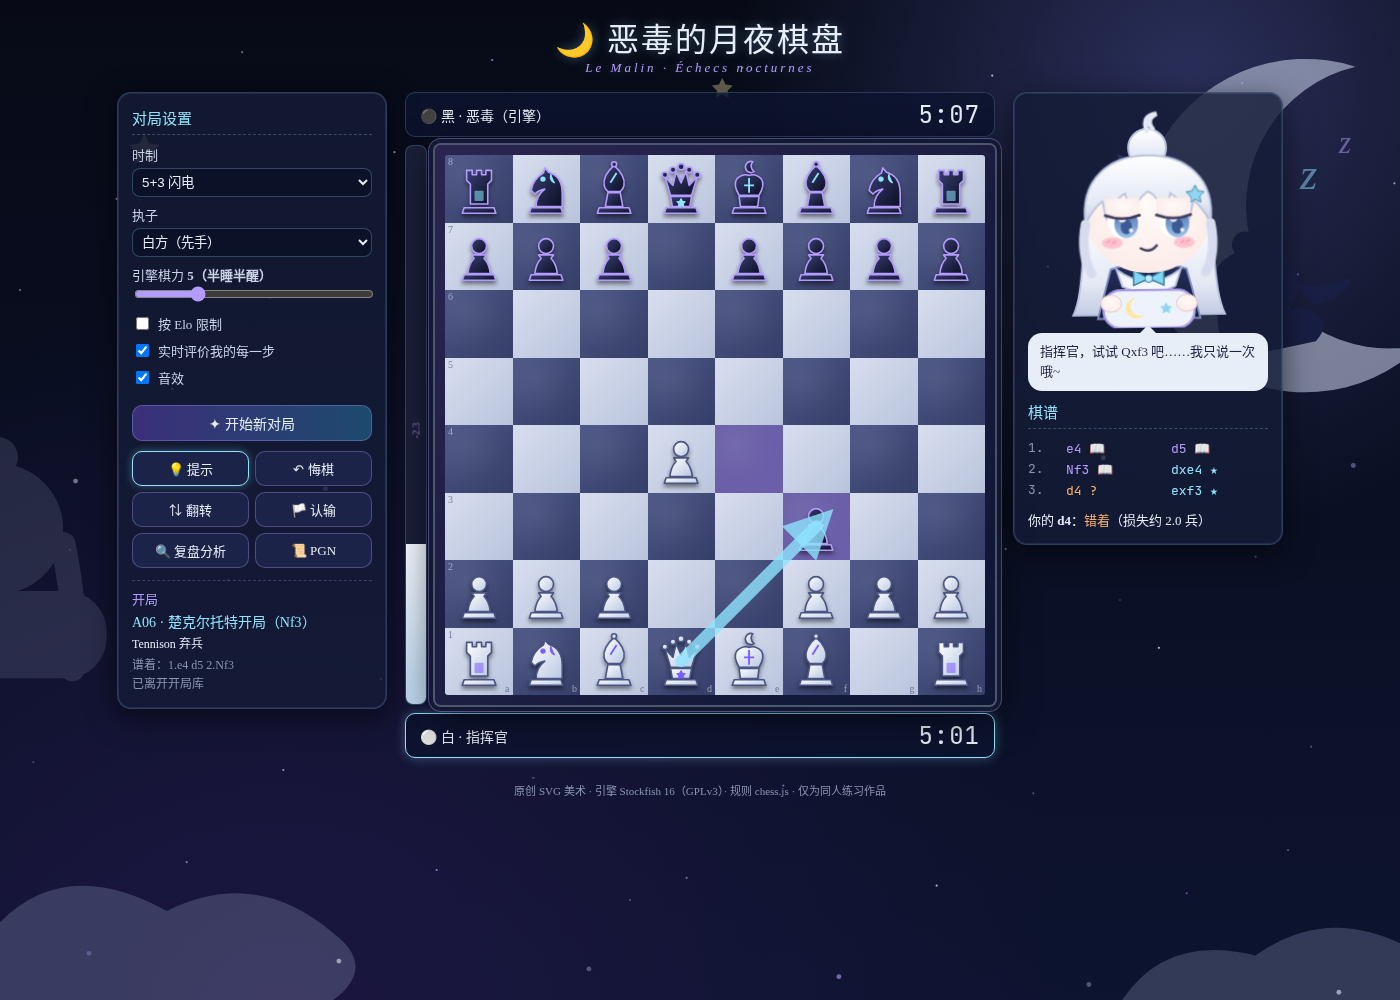
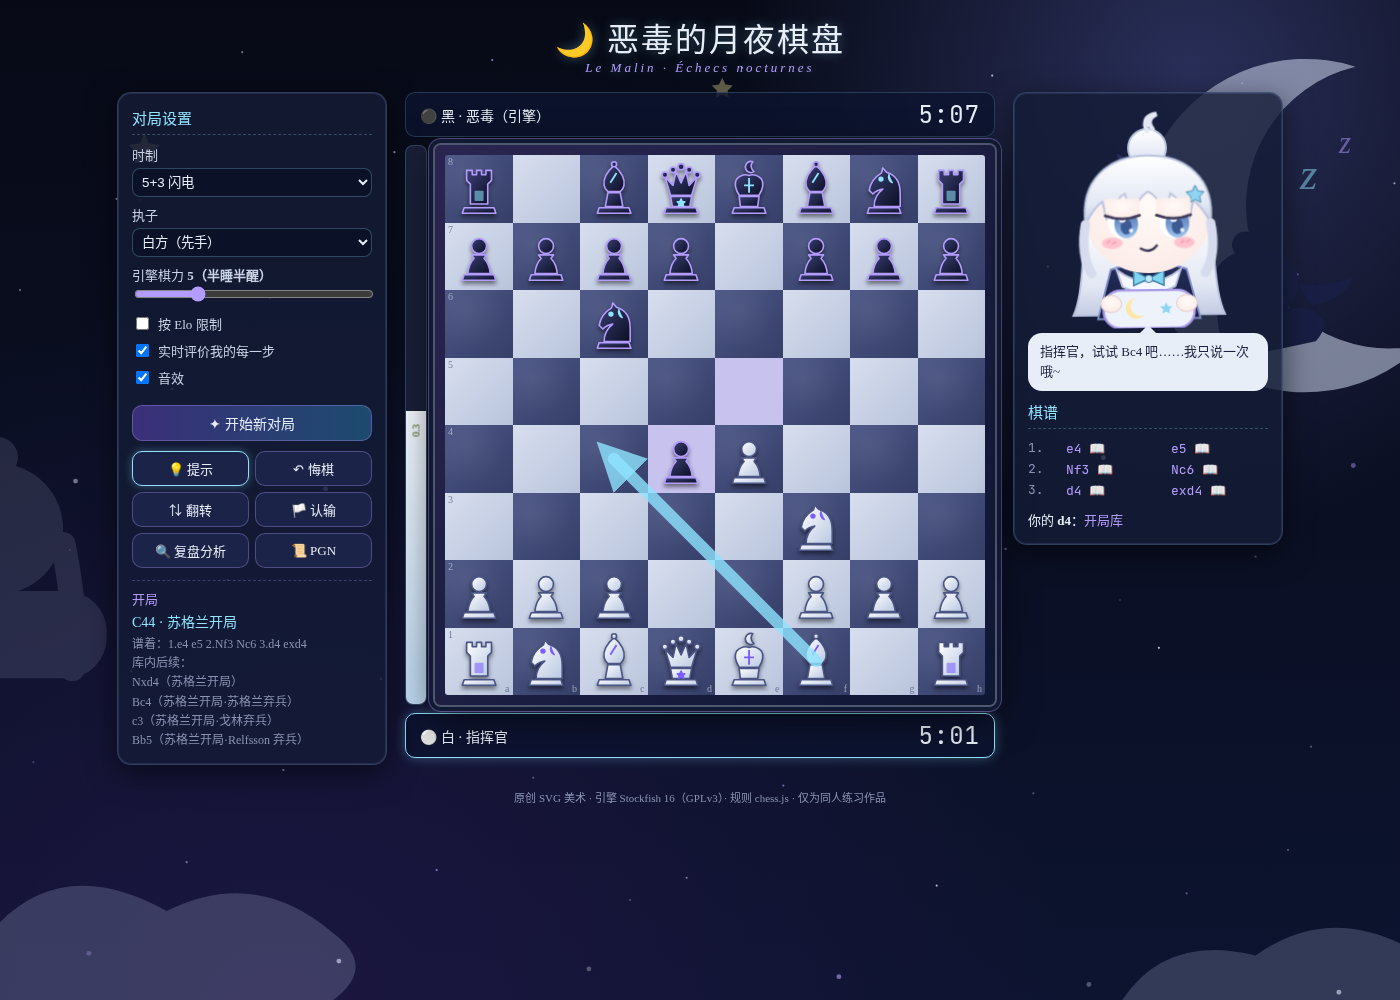
v3: pixel-art chibi Le Malin secretary (5 expressions, bob/blink), pixel night-sky background, art style toggle

diff --git a/pixel.js b/pixel.js
@@ -1,0 +1,104 @@
+// 原创像素风 Q版「恶毒」：64x64 网格程序化绘制（参考官方配色元素，非描摹）
+export const PAL = {
+  o:'#2b2342', // 轮廓
+  h:'#f4f6fc', H:'#cdd4ec', j:'#9aa3cc', // 头发 亮/中/暗
+  s:'#fff1ea', S:'#f6d6cf',             // 皮肤
+  w:'#ffffff', b:'#7fa6dc', B:'#4a68a8', d:'#2c3d73', // 眼白/虹膜/瞳孔
+  p:'#ff9fb4', m:'#c4546f',             // 腮红 嘴
+  n:'#2a3366', N:'#1a2046', c:'#8fe0f5', C:'#4fa9cc', // 洋装 / 蝴蝶结
+  W:'#f2f5ff', k:'#e6e9f7', y:'#ffe08a', v:'#b49cff'  // 领子 枕头 月亮 紫
+};
+const SZ = 64;
+function grid(){ return Array.from({ length: SZ }, () => Array(SZ).fill(null)); }
+function ell(g, cx, cy, rx, ry, c, cond){ for (let y = 0; y < SZ; y++) for (let x = 0; x < SZ; x++) { const dx = (x + .5 - cx) / rx, dy = (y + .5 - cy) / ry; if (dx * dx + dy * dy <= 1 && (!cond || cond(x, y, g[y][x]))) g[y][x] = c; } }
+function rect(g, x0, y0, x1, y1, c){ for (let y = y0; y <= y1; y++) for (let x = x0; x <= x1; x++) if (y >= 0 && y < SZ && x >= 0 && x < SZ) g[y][x] = c; }
+function px(g, pts, c){ for (const [x, y] of pts) if (g[y]) g[y][x] = c; }
+function outline(g){ const o = g.map(r => r.slice()); for (let y = 0; y < SZ; y++) for (let x = 0; x < SZ; x++) if (!g[y][x]) { for (const [dx, dy] of [[1,0],[-1,0],[0,1],[0,-1]]) { const v = g[y + dy] && g[y + dy][x + dx]; if (v && v !== 'o') { o[y][x] = 'o'; break; } } } return o; }
+function mirror(fn){ return (x, ...a) => { fn(x, ...a); }; }
+
+const EX = [24, 40], EY = 28; // 眼睛位置（左上角 x = cx-4）
+function eyes(g, mode){
+  const E = (cx, look) => { const L = cx - 4, T = EY;
+    if (mode === 'yawn') { px(g, [[L,T+5],[L+1,T+6],[L+2,T+6],[L+3,T+6],[L+4,T+6],[L+5,T+6],[L+6,T+6],[L+7,T+5]], 'o'); return; }
+    if (mode === 'happy') { px(g, [[L,T+6],[L+1,T+5],[L+2,T+4],[L+3,T+4],[L+4,T+4],[L+5,T+4],[L+6,T+5],[L+7,T+6]], 'o'); px(g, [[L+1,T+6],[L+6,T+6]], 'o'); return; }
+    rect(g, L+1, T, L+6, T, 'o'); rect(g, L, T+1, L+7, T+1, 'o');
+    if (mode === 'shock') { rect(g, L, T+2, L+7, T+9, 'w'); rect(g, L+3, T+4, L+5, T+7, 'b'); rect(g, L+3, T+5, L+4, T+6, 'd'); px(g, [[L+3,T+4]], 'w'); px(g, [[L-1,T+2],[L+8,T+2],[L-1,T+3],[L+8,T+3]], 'o'); rect(g, L+1, T+10, L+6, T+10, 'o'); return; }
+    rect(g, L, T+2, L+7, T+10, 'b'); rect(g, L, T+2, L+7, T+4, 'B'); rect(g, L+1, T+11, L+6, T+11, 'o');
+    rect(g, L+2+look, T+4, L+5+look, T+9, 'd'); rect(g, L+1, T+10, L+6, T+10, 'c');
+    rect(g, L+1+look, T+2, L+3+look, T+4, 'w'); px(g, [[L+6+look,T+7],[L+5+look,T+8]], 'w');
+    px(g, [[L-1,T+1],[L+8,T+1],[L-1,T+2]], 'o');
+    if (mode === 'sleepy' || mode === 'smug') { const h = mode === 'smug' ? 3 : 4; rect(g, L-1, T, L+8, T + h, 's'); rect(g, L, T + h + 1, L+7, T + h + 1, 'o'); px(g, [[L-1,T+h+1],[L+8,T+h]], 'o'); }
+  };
+  const look = mode === 'smug' ? 1 : 0; E(EX[0], look); E(EX[1], look);
+  if (mode === 'yawn') px(g, [[46,EY+7],[46,EY+8],[47,EY+8]], 'c');
+  if (mode === 'shock') px(g, [[51,20],[51,21],[50,22],[51,22],[52,22],[51,23]], 'c');
+}
+function mouth(g, mode){ const Y = 42;
+  if (mode === 'yawn') { rect(g, 31, Y-1, 33, Y+1, 'm'); px(g, [[30,Y],[34,Y],[31,Y+2],[32,Y+2],[33,Y+2],[31,Y-2],[32,Y-2],[33,Y-2],[30,Y-1],[34,Y-1],[30,Y+1],[34,Y+1]], 'o'); px(g, [[32,Y+1]], 'p'); return; }
+  if (mode === 'shock') { px(g, [[32,Y-1],[33,Y-1]], 'o'); rect(g, 32, Y, 33, Y, 'm'); px(g, [[31,Y],[34,Y],[32,Y+1],[33,Y+1]], 'o'); return; }
+  if (mode === 'happy') { px(g, [[29,Y-1],[35,Y-1],[30,Y],[34,Y]], 'o'); rect(g, 31, Y, 33, Y, 'm'); rect(g, 31, Y+1, 33, Y+1, 'o'); return; }
+  if (mode === 'smug') { px(g, [[30,Y],[31,Y+1],[32,Y+1],[33,Y],[34,Y-1]], 'o'); return; }
+  px(g, [[31,Y],[33,Y]], 'o'); px(g, [[32,Y+1]], 'o');
+}
+export function lemalin(mode = 'sleepy', frame = 0){
+  const g = grid();
+  // 后发：圆头 + 两侧长发
+  ell(g, 32, 30, 25, 25, 'H');
+  for (let y = 30; y < 62; y++) { const t = (y - 30) / 32, w = Math.round(7 + 2 * t), x0 = 8 - Math.round(4 * t * t), x1 = 55 + Math.round(4 * t * t);
+    rect(g, x0, y, x0 + w, y, 'H'); rect(g, x1 - w, y, x1, y, 'H'); px(g, [[x0 + w, y], [x1 - w, y]], 'j'); if (y > 58) px(g, [[x0 + (y % 2), y], [x1 - (y % 2), y]], null); }
+  // 身体
+  for (let y = 46; y < 64; y++) { const w = 9 + Math.floor((y - 46) / 2); rect(g, 32 - w, y, 31 + w, y, y > 59 ? 'N' : 'n'); }
+  rect(g, 23, 46, 40, 47, 'W'); rect(g, 25, 48, 38, 48, 'W'); rect(g, 28, 49, 35, 49, 'W'); px(g, [[23,48],[40,48]], 'n');
+  px(g, [[27,48],[28,48],[27,49],[28,50],[29,50],[29,49],[36,48],[35,48],[36,49],[35,50],[34,50],[34,49],[30,50],[33,50]], 'c'); rect(g, 31, 49, 32, 51, 'C'); px(g, [[30,52],[33,52],[30,51],[33,51]], 'C');
+  // 抱枕
+  rect(g, 13, 54, 50, 62, 'k'); rect(g, 12, 56, 51, 61, 'k'); rect(g, 13, 61, 50, 62, 'W'); rect(g, 14, 55, 49, 55, 'W');
+  px(g, [[22,56],[23,56],[21,57],[21,58],[21,59],[22,60],[23,60],[24,59],[22,57],[22,58],[22,59]], 'y');
+  px(g, [[41,56],[40,57],[41,57],[42,57],[41,58],[39,57],[43,57],[41,59]], 'c'); px(g, [[41,57]], 'w'); px(g, [[31,58],[47,60],[16,60],[34,61]], 'v');
+  ell(g, 14, 56, 3.5, 3, 's'); ell(g, 49, 56, 3.5, 3, 's'); px(g, [[13,58],[14,58],[49,58],[50,58]], 'S');
+  // 脸
+  ell(g, 32, 33, 17, 14.5, 's'); rect(g, 22, 46, 41, 46, null); rect(g, 23, 46, 40, 47, 'W');
+  // 刘海（清晰发束）：每束底部尖
+  const bottom = x => { const p = [0, 2, 4, 5, 4, 2]; return 22 + p[(x + 3) % 6] + (Math.abs(x - 32) > 12 ? 3 : 0); };
+  ell(g, 32, 26, 22, 17, 'h', (x, y) => y <= bottom(x)); ell(g, 36, 30, 20, 13, 'H', (x, y, v) => v === 'h' && y <= bottom(x) && y >= 23 && (x + y) % 2 === 0 && y === bottom(x) - 1);
+  for (let x = 13; x <= 51; x++) { const b = bottom(x); if (g[b + 1] && g[b + 1][x] === 's') g[b][x] = 'j'; }
+  for (let x = 13; x <= 51; x++) if ((x + 3) % 6 === 0) for (let y = 20; y < bottom(x); y++) if (g[y][x] === 'h') g[y][x] = 'H';
+  // 丸子头 + 发带 + 呆毛
+  ell(g, 32, 8, 7.5, 7, 'j'); ell(g, 32, 8, 6.5, 6, 'h'); ell(g, 33.5, 10, 5, 3.5, 'H', (x, y, v) => v === 'h' && y >= 10); px(g, [[29,4],[30,4],[28,5],[29,5]], 'w'); px(g, [[27,12],[37,12],[26,11],[38,11],[27,10],[37,10]], 'j');
+  rect(g, 27, 13, 37, 13, 'n'); px(g, [[24,12],[25,12],[24,14],[25,13],[39,12],[40,12],[39,13],[40,14],[26,13],[38,13]], 'n');
+  px(g, [[32,2],[32,1],[33,0],[34,0],[35,1],[35,2]], 'h');
+  // 侧发
+  for (let y = 26; y < 47; y++) { const e = y > 40 ? 1 : 0; rect(g, 13, y, 16 - e, y, 'h'); rect(g, 47 + e, y, 50, y, 'h'); px(g, [[16 - e, y], [47 + e, y]], 'j'); }
+  // 高光 + 星星发饰
+  px(g, [[21,16],[22,16],[23,15],[24,15],[25,15],[39,15],[40,15],[41,16]], 'w');
+  px(g, [[47,18],[46,19],[47,19],[48,19],[47,20],[45,19],[49,19]], 'c'); px(g, [[47,19]], 'w');
+  eyes(g, mode);
+  rect(g, 18, 40, 21, 40, 'p'); rect(g, 43, 40, 46, 40, 'p'); px(g, [[19,41],[20,41],[44,41],[45,41]], 'p');
+  mouth(g, mode);
+  let out = outline(g);
+  if (frame) { out = [Array(SZ).fill(null), ...out.slice(0, SZ - 1)]; }
+  return out;
+}
+export function blinkFrame(mode){ const g = lemalin(mode, 0); if (mode === 'happy' || mode === 'yawn') return g; // 眨眼：把眼睛区域换成闭眼线
+  for (const cx of EX) { const L = cx - 4; for (let y = EY; y < EY + 11; y++) for (let x = L - 1; x <= L + 8; x++) if (g[y][x] && 'wbBdCo'.includes(g[y][x])) g[y][x] = 's'; for (let x = L; x <= L + 7; x++) g[EY + 6][x] = 'o'; g[EY + 5][L - 1] = 'o'; g[EY + 5][L + 8] = 'o'; }
+  return g; }
+export function drawGrid(canvas, g, scale = 4){ canvas.width = SZ * scale; canvas.height = SZ * scale; const ctx = canvas.getContext('2d'); ctx.clearRect(0, 0, canvas.width, canvas.height);
+  for (let y = 0; y < SZ; y++) for (let x = 0; x < SZ; x++) { const c = g[y][x]; if (c) { ctx.fillStyle = PAL[c]; ctx.fillRect(x * scale, y * scale, scale, scale); } } }
+
+// 像素夜空背景（含睡在月亮上的小恶毒）
+export function drawBackground(canvas){
+  const W = 320, H = 180; canvas.width = W; canvas.height = H; const ctx = canvas.getContext('2d');
+  for (let y = 0; y < H; y++) { const t = y / H; ctx.fillStyle = `rgb(${Math.round(7 + 12 * t)},${Math.round(10 + 10 * t)},${Math.round(24 + 28 * t)})`; ctx.fillRect(0, y, W, 1); }
+  let seed = 7; const r = () => (seed = (seed * 16807) % 2147483647) / 2147483647;
+  for (let i = 0; i < 140; i++) { const x = Math.floor(r() * W), y = Math.floor(r() * H * .8), b = r(); ctx.fillStyle = b > .9 ? '#ffe08a' : b > .6 ? '#b49cff' : '#e8eef7'; ctx.globalAlpha = .35 + b * .5; ctx.fillRect(x, y, 1, 1); if (b > .93) { ctx.fillRect(x - 1, y, 3, 1); ctx.fillRect(x, y - 1, 1, 3); } }
+  ctx.globalAlpha = 1;
+  // 月亮
+  const mx = 262, my = 118, R = 22; for (let y = -R; y <= R; y++) for (let x = -R; x <= R; x++) { const d = x * x + y * y, d2 = (x + 11) ** 2 + (y - 7) ** 2; if (d <= R * R && d2 > (R - 3) ** 2) { ctx.fillStyle = d > (R - 2) ** 2 ? '#b9c8ef' : (x + y) % 9 === 0 ? '#cfdcfa' : '#e6eeff'; ctx.fillRect(mx + x, my + y, 1, 1); } }
+  // 小恶毒睡在月牙上（12x8 像素）
+  const tiny = ['....hh......', '...hhhh.....', '.hhhhhhhh...', 'hhhsssshhhh.', 'hhs-s-sshhhhh', '.hssssshhhkkk', '..nnnnnnkkkk', '...nnnn..kk.'];
+  const tp = { h: '#f4f6fc', s: '#fff1ea', '-': '#2b2342', n: '#2a3366', k: '#e6e9f7' };
+  tiny.forEach((row, y) => [...row].forEach((c, x) => { if (tp[c]) { ctx.fillStyle = tp[c]; ctx.fillRect(mx - 16 + x, my + 10 + y, 1, 1); } }));
+  ctx.fillStyle = '#8fe3ff'; ctx.fillRect(mx - 10, my + 8, 2, 1); ctx.fillRect(mx - 9, my + 7, 1, 1); ctx.fillStyle = '#b49cff'; ctx.fillRect(mx - 5, my + 3, 1, 1);
+  // 云/枕头山
+  ctx.fillStyle = '#1c2450'; for (let x = 0; x < W; x++) { const h = 10 + Math.round(5 * Math.sin(x / 13) + 3 * Math.sin(x / 5.3)); ctx.fillRect(x, H - h, 1, h); }
+  ctx.fillStyle = '#141a3c'; for (let x = 0; x < W; x++) { const h = 5 + Math.round(3 * Math.sin(x / 9 + 1)); ctx.fillRect(x, H - h, 1, h); }
+}

diff --git a/app.js b/app.js
@@ -1,6 +1,7 @@
 import { Chess } from './vendor/chess.js';
 import { pieceSVG } from './pieces.js';
 import { chibiSVG, backgroundSVG } from './chibi.js';
+import { lemalin, blinkFrame, drawGrid, drawBackground } from './pixel.js';
 const $ = s => document.querySelector(s);
 
 /* ---------- Stockfish 引擎（Web Worker，单线程版，不需要 SharedArrayBuffer） ---------- */
@@ -50,7 +51,15 @@ const L = {
   low: ['指挥官，时间不多了哦，快一点吧~']
 };
 const pick = a => a[Math.floor(Math.random() * a.length)];
-function say(t, mood = 'sleepy'){ $('#bubble').textContent = t; $('#avatar').innerHTML = chibiSVG(mood); }
+let mood = 'sleepy', frame = 0, tick2 = 0;
+const artPixel = () => $('#artStyle').value === 'pixel';
+function drawAvatar(){ if (!artPixel()) { $('#avatar').innerHTML = chibiSVG(mood); return; }
+  let c = $('#avatar canvas'); if (!c) { $('#avatar').innerHTML = '<canvas class="px"></canvas>'; c = $('#avatar canvas'); }
+  const blink = tick2 % 9 === 8 && mood !== 'happy' && mood !== 'yawn';
+  drawGrid(c, blink ? blinkFrame(mood) : lemalin(mood, frame), 4); }
+setInterval(() => { tick2++; frame = tick2 % 2; if (artPixel()) drawAvatar(); }, 700);
+function say(t, m = 'sleepy'){ $('#bubble').textContent = t; mood = m; drawAvatar(); }
+function drawBg(){ if (artPixel()) { $('#bgArt').innerHTML = '<canvas class="px"></canvas>'; drawBackground($('#bgArt canvas')); } else $('#bgArt').innerHTML = backgroundSVG(); }
 
 /* ---------- 音效（WebAudio 合成，无外部文件） ---------- */
 let ac; function beep(f = 520, d = .08){ if (!$('#snd').checked) return; try { ac = ac || new AudioContext(); const o = ac.createOscillator(), g = ac.createGain(); o.type = 'triangle'; o.frequency.value = f; g.gain.setValueAtTime(.12, ac.currentTime); g.gain.exponentialRampToValueAtTime(.001, ac.currentTime + d * 3); o.connect(g).connect(ac.destination); o.start(); o.stop(ac.currentTime + d * 3); } catch (e) {} }
@@ -213,7 +222,8 @@ const lvlNames = l => l <= 3 ? '（迷糊）' : l <= 8 ? '（半睡半醒）' : 
 $('#lvl').oninput = () => $('#lvlTxt').textContent = $('#lvl').value + lvlNames(+$('#lvl').value); $('#lvl').oninput();
 $('#useElo').onchange = () => { $('#eloRow').hidden = !$('#useElo').checked; $('#lvl').disabled = $('#useElo').checked; };
 $('#elo').oninput = () => $('#eloTxt').textContent = $('#elo').value;
-document.getElementById('bgArt').innerHTML = backgroundSVG();
+$('#artStyle').onchange = () => { $('#avatar').innerHTML = ''; drawBg(); drawAvatar(); localStorage.lmArt = $('#artStyle').value; };
+if (localStorage.lmArt) $('#artStyle').value = localStorage.lmArt; drawBg();
 say('哈啊……指挥官，要下棋吗？左边选好时制和棋力，点「开始新对局」吧~'); render();
 
 /* ---------- 复盘分析 ---------- */

diff --git a/index.html b/index.html
@@ -21,6 +21,7 @@
   <label id="eloRow" hidden>Elo <b id="eloTxt">1500</b><input id="elo" type="range" min="1320" max="3000" step="10" value="1500"></label>
   <label class="chk"><input id="liveFb" type="checkbox" checked>实时评价我的每一步</label>
   <label class="chk"><input id="snd" type="checkbox" checked>音效</label>
+  <label>画风<select id="artStyle"><option value="pixel">像素风（默认）</option><option value="vector">矢量 Q 版</option></select></label>
   <button id="newGame" class="primary">✦ 开始新对局</button>
   <div class="btnrow"><button id="hint">💡 提示</button><button id="undo">↶ 悔棋</button></div>
   <div class="btnrow"><button id="flip">⇅ 翻转</button><button id="resign">🏳 认输</button></div>

diff --git a/style.css b/style.css
@@ -76,3 +76,7 @@ footer{text-align:center;color:var(--dim);font-size:11px;padding:14px}
 #pgnModal .box{background:var(--navy);border:1px solid var(--cyan);border-radius:14px;padding:16px;width:min(92vw,560px)}
 #pgnText{width:100%;height:220px;background:#0b1126;color:var(--silver);border:1px solid #8fe3ff44;border-radius:8px;font-family:monospace;padding:8px}
 #summary button{margin-top:6px}
+canvas.px{image-rendering:pixelated;image-rendering:crisp-edges}
+#avatar canvas.px{width:192px;height:192px;display:block;margin:auto}
+#bgArt canvas.px{width:100%;height:100%;object-fit:cover;opacity:.9}
+#avatar{height:auto;min-height:192px}
